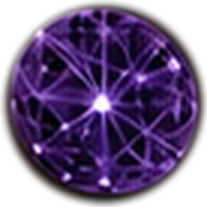
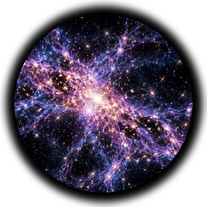
New place pictures from the owner: Cosmic Web, Galaxies, Solar System, The Planets and the four galaxies
Claude-Session: https://claude.ai/code/session_01BcJT7qpSZYsHyRQ1UvBN1z

diff --git a/Assets/_sources/CREDITS.md b/Assets/_sources/CREDITS.md
@@ -175,3 +175,18 @@ Drawn in code for this project with Python Pillow (no third-party artwork), whit
 - `Assets/ui/photos/{sun,mercury,venus,earth,mars,jupiter,saturn,uranus,neptune,pluto}.png` — renders of the app's own bodies, taken in play mode with a temporary camera and composited over a generated star field. Used where the design has no picture of a body.
 - `Assets/ui/photos/{ariel,charon,dione,hydra,kerberos,miranda,nereid,nix,oberon,proteus,rhea,styx,tethys,titania,triton,umbriel}.png` — spheres rendered in Python from the moon maps in `Assets/Textures/moons/` (sources and licences listed above; the generated maps stay generated).
 - `Assets/ui/photos/{crab,helix,homunculus,orion,pillars,ngc1501,trumpler14}.png` — centre crops of the nebula images already in `Assets/Textures/` (sources and licences as listed for those files).
+
+## New place pictures (14 Oct 2026)
+
+Generated by the owner with ChatGPT image generation on 14 Oct 2026 (eight images, about 1615 x 974), replacing the earlier place pictures in place (same file names and `.meta`, so every reference and import setting is kept). Center-cropped to each old file's aspect ratio and resized with Python Pillow; the rail pictures are cut into the old round disk and keep the old soft shadow. Illustrations, not observations.
+
+| Image | Became |
+|---|---|
+| Cosmic web (purple and blue filaments) | `Assets/ui/thumbnails/cosmic_web.png`, `Assets/ui/figma/v2_context_cosmic_web.png` |
+| Field of many galaxies | `Assets/ui/thumbnails/galaxies.png`, `Assets/ui/figma/v2_context_galaxies.png` |
+| The Sun and the planets in a straight row | `Assets/ui/thumbnails/solar_system_planets.png` |
+| The Sun with planets on orbit lines and an asteroid belt | `Assets/ui/thumbnails/solar_system.png`, `Assets/ui/figma/v2_context_solar_system.png` |
+| Andromeda with two companions | `Assets/ui/thumbnails/andromeda.png`, `Assets/ui/photos/card_andromeda.png`, `Assets/ui/photos/tile_andromeda.png` |
+| Whirlpool with its companion | `Assets/ui/photos/tile_whirlpool.png` |
+| Pinwheel, face-on | `Assets/ui/photos/tile_pinwheel.png` |
+| Triangulum, loose patchy spiral | `Assets/ui/photos/tile_triangulum.png` |
